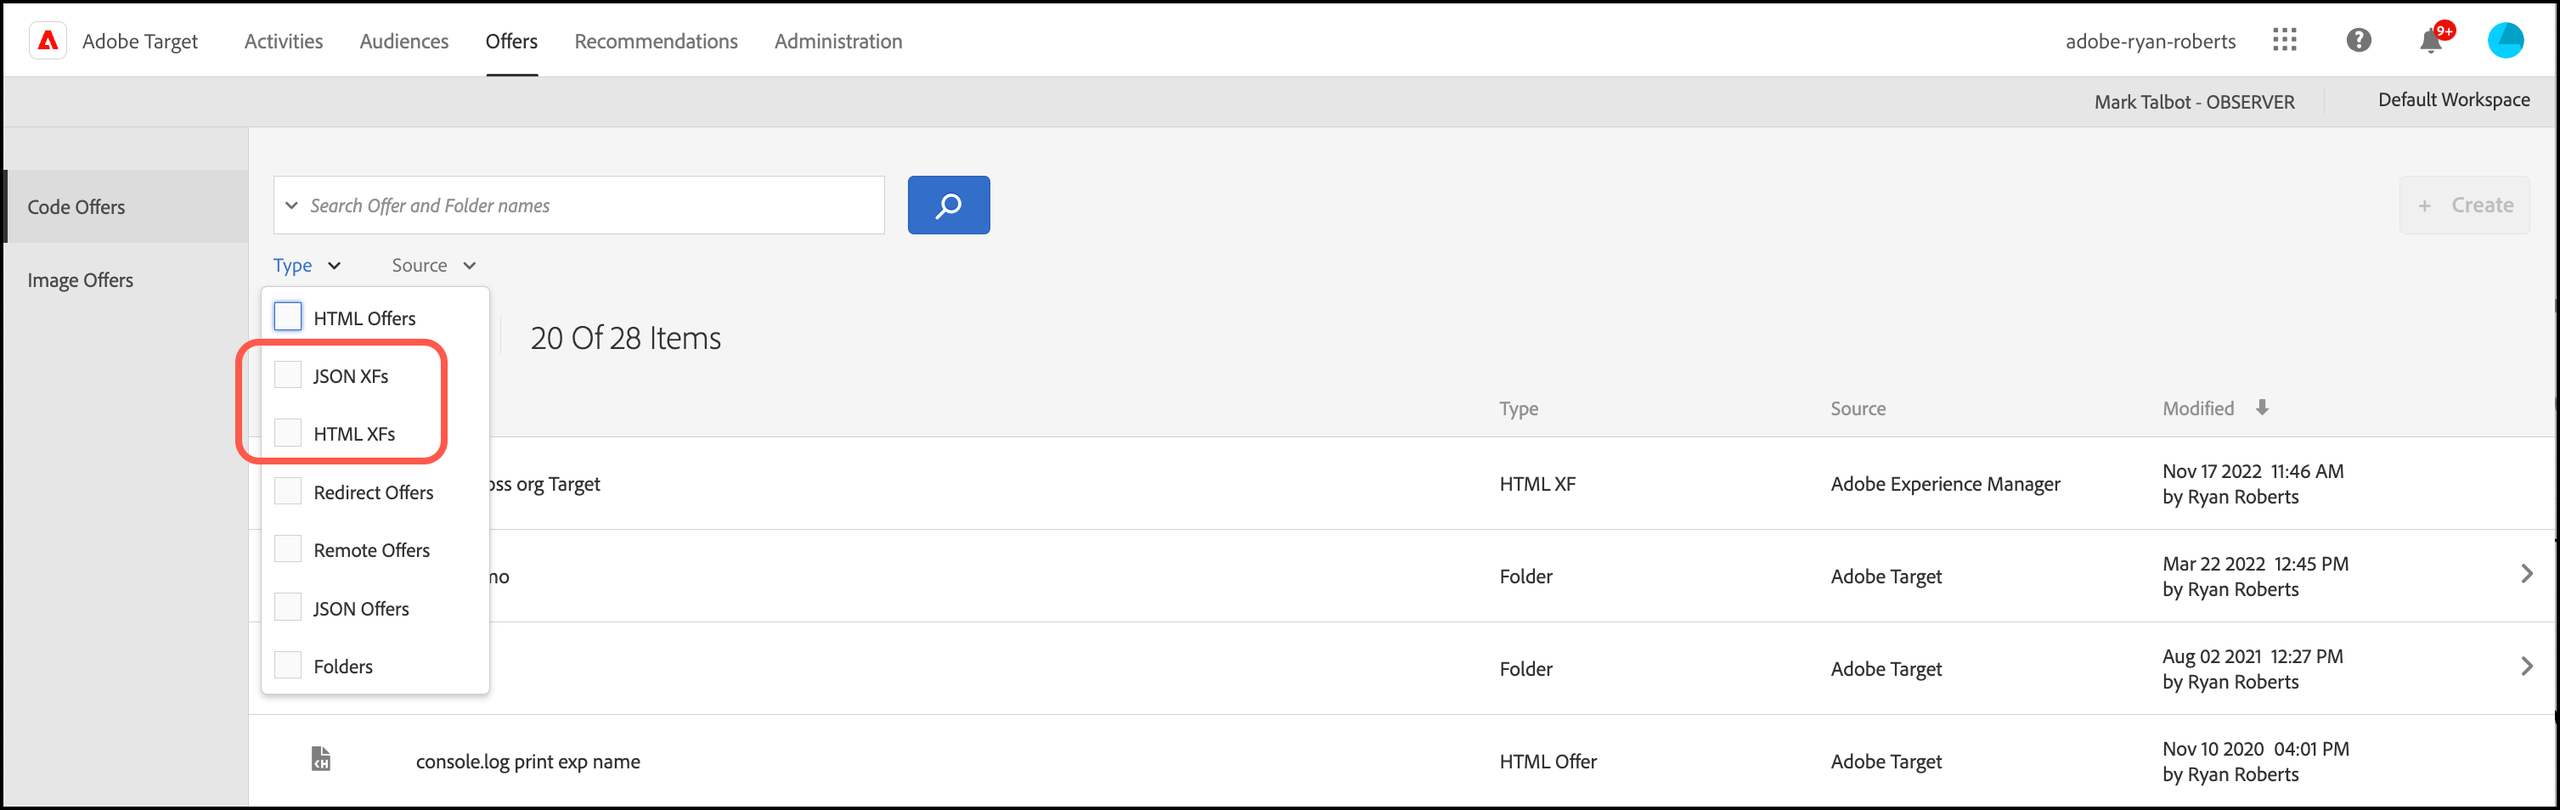
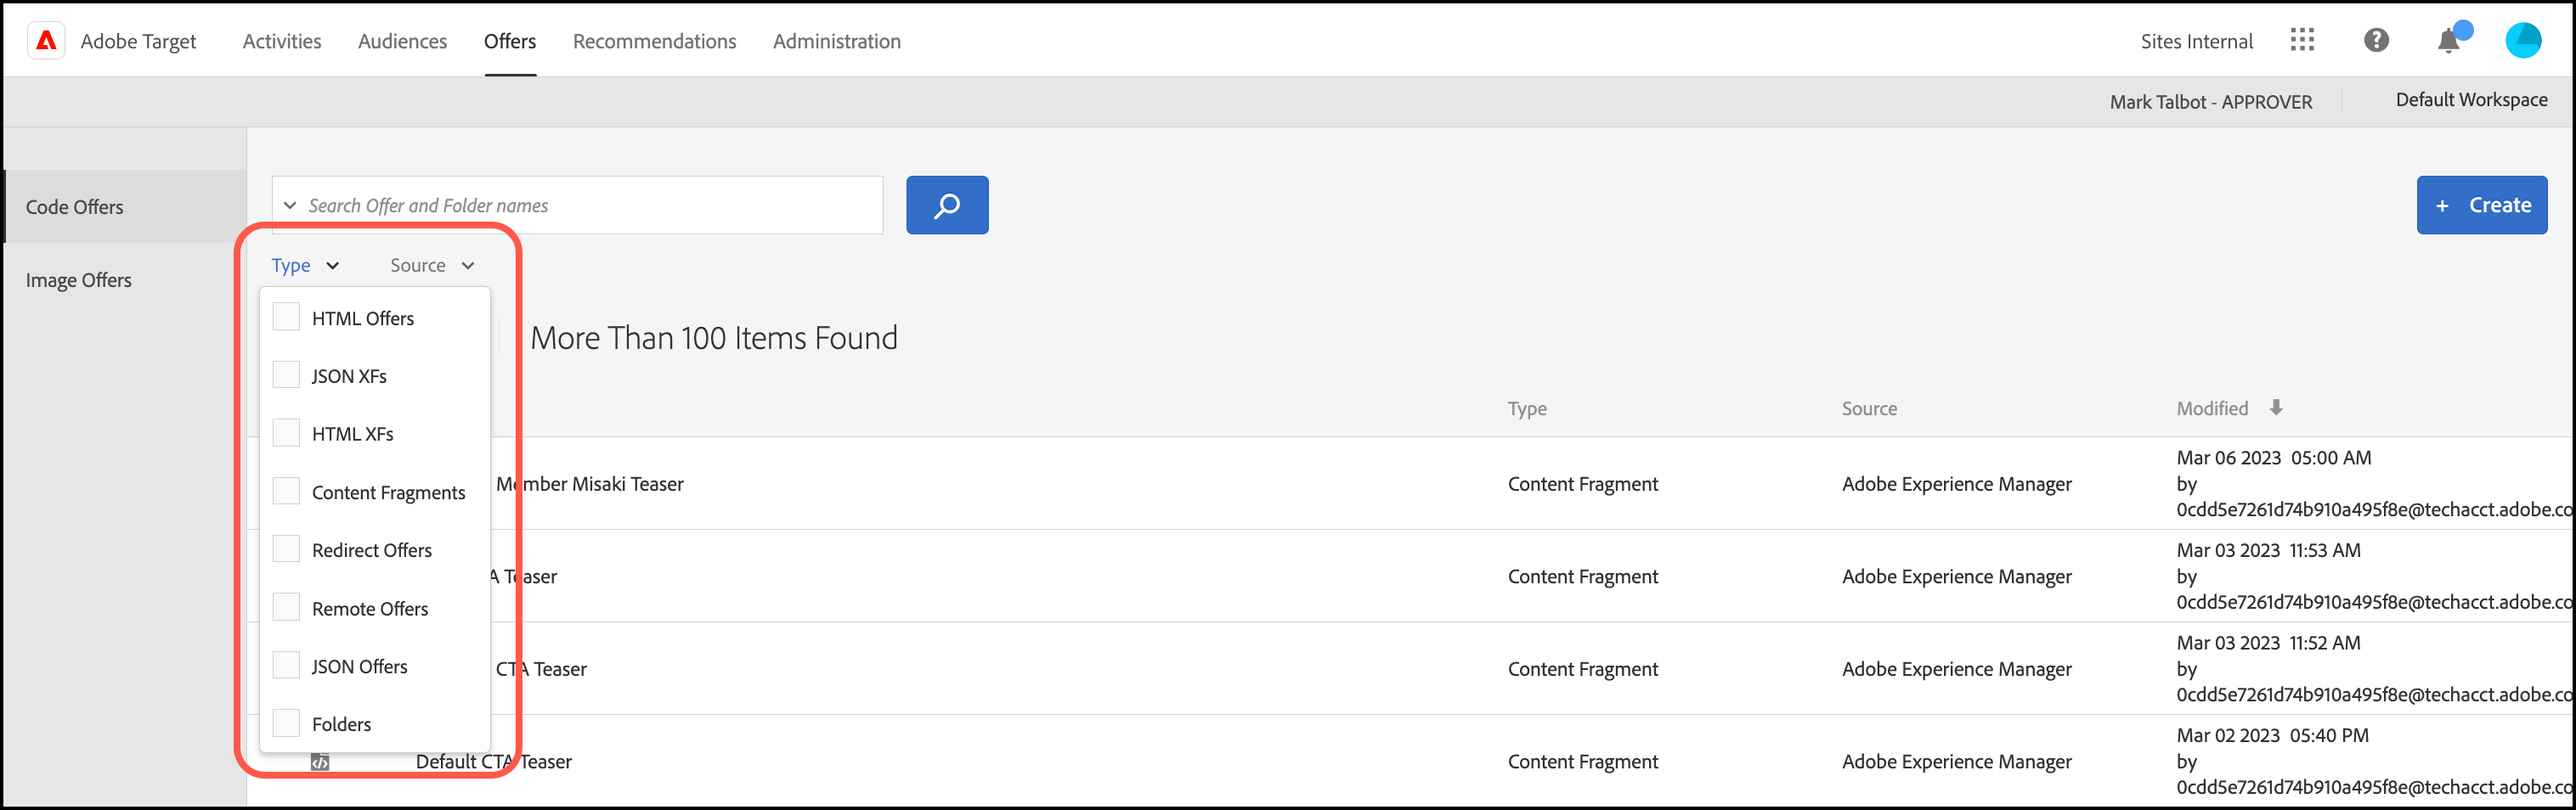
update

diff --git a/help/main/c-integrating-target-with-mac/aem/content-fragments-aem.md b/help/main/c-integrating-target-with-mac/aem/content-fragments-aem.md
@@ -40,13 +40,13 @@ After performing the preceding tasks, the [!UICONTROL Content Fragment] displays
 
 The [!UICONTROL Content Fragment] is imported into [!DNL Target] as a JSON offer. That [!UICONTROL Content Fragment] "primary" version remains in [!DNL AEM]. You cannot edit the [!UICONTROL Content Fragment] in [!DNL Target].
 
-You can filter and search by [!UICONTROL HTML XFs] and [!UICONTROL JSON XFs] to help you distinguish between [!UICONTROL Content Fragments] and [!UICONTROL Experience Fragment] types that are exported to [!DNL Target].
+You can filter and search by [!UICONTROL HTML XFs], [!UICONTROL JSON XFs] and [!UICONTROL Content Fragments] to help you distinguish between different offers types that are exported to [!DNL Target].
 
 ![Filter by Content Fragment types: HTML or JSON in the Target UI](/help/main/c-integrating-target-with-mac/aem/assets/fragment-types.png)
 
-You can hover over a [!UICONTROL Content Fragment] in the list, then click the [!UICONTROL View] icon ![Info icon](/help/main/c-integrating-target-with-mac/aem/assets/icon-info.png) to see additional information about the [!UICONTROL Content Fragment], including its [!UICONTROL Name], [!UICONTROL Type], [!UICONTROL Offer ID], [!UICONTROL Offer path], and last modifications information. Click the [!UICONTROL Offer Usage] tab to see the activities that reference this offer.
+You can hover over a [!UICONTROL Content Fragment] in the list, then click the [!UICONTROL View] icon ![Info icon](/help/main/c-integrating-target-with-mac/aem/assets/icon-info.png) to see additional information about the [!UICONTROL Content Fragment], including its [!UICONTROL AEM path] and [!UICONTROL AEM deep link]. Click the [!UICONTROL Offer Usage] tab to see the activities that reference this offer.
 
-![Content Fragment information pop-up](/help/main/c-integrating-target-with-mac/aem/assets/xf-info-popup.png)
+![Content Fragment information pop-up](/help/main/c-integrating-target-with-mac/aem/assets/cf-info-popup.png)
 
 You can consume [!UICONTROL Content Fragments] in [!DNL Target] activities using the [Form-Based Experience Composer](/help/main/c-experiences/form-experience-composer.md) only. You *cannot* consume [!UICONTROL Content Fragments] in [!DNL Target] activities using the [Visual Experience Composer](/help/main/c-experiences/c-visual-experience-composer/visual-experience-composer.md) (VEC). [!UICONTROL Content Fragments] are exported as JSON in [!DNL Target] and cannot be used in activities created using the VEC.
 
@@ -62,7 +62,7 @@ You can consume [!UICONTROL Content Fragments] in [!DNL Target] activities using
 
 1. In [!DNL Target], while creating or editing an experience in the [Form-Based Experience Composer](/help/main/c-experiences/form-experience-composer.md#task_FAC842A6535045B68B4C1AD3E657E56E), select the location on the page where you want to insert [!DNL AEM] content, then select **[!UICONTROL Change Content Fragment]** to display the [!UICONTROL Choose a Content Fragment] list.
 
-   ![experience_fragment_list image](/help/main/c-integrating-target-with-mac/aem/assets/experience_fragment_list.png)
+   ![content_fragment_list image](/help/main/c-integrating-target-with-mac/aem/assets/choose-content-fragment.png)
 
    The [!UICONTROL Content Fragment] list displays the content created in [!DNL AEM] that is now natively available from within [!DNL Target]. 
 

diff --git a/help/main/r-release-notes/doc-change.md b/help/main/r-release-notes/doc-change.md
@@ -13,6 +13,9 @@ This page lists significant changes made to the [!DNL Adobe Target] product docu
 
 |Date|Topic|Changes|
 | --- | --- | --- |
+|March 6|[[!DNL Target] release notes (current)](/help/main/r-release-notes/release-notes.md)|Added information about the [!DNL Target] [!UICONTROL Content Fragments] integration with [!DNL Adobe Experience Manager].|
+||[AEM [!UICONTROL Content Fragments]](/help/main/c-integrating-target-with-mac/aem/content-fragments-aem.md)|New article.|
+||[AEM Experience Fragments and Content Fragments overview](/help/main/c-integrating-target-with-mac/aem/aem-experience-and-content-fragments.md)|New article.|
 |February 21|[Allowlist Target edge nodes](https://developer.adobe.com/target/before-implement/privacy/allowlist-edges/){target=_blank}|Updated list of IP addresses to allowlist for all regions in the [Adobe Target Developer Guide](https://developer.adobe.com/target/){target=_blank}.|
 ||[Modifications](/help/main/c-experiences/c-visual-experience-composer/c-vec-code-editor/vec-code-editor.md)|Added text explaining that the example using JQuery assumes that the customer's website has jQuery available on the page when [!DNL Target] executes the offers.|
 |February 10|[Target release notes (current)](/help/main/r-release-notes/release-notes.md)|Added release notes for the [!DNL Target Standard/Premium] 22.14.5 release.|

diff --git a/help/main/r-release-notes/target-release-notes.md b/help/main/r-release-notes/target-release-notes.md
@@ -9,9 +9,15 @@ exl-id: f2783042-f6ee-4f73-b487-ede11d55d530
 
 This article contains prerelease information. Release dates, features, and other information are subject to change without notice. 
 
-**Last Updated: February 10, 2023**
+**Last Updated: March 6, 2023**
 
 To view information about the current release, see [Target Release Notes](release-notes.md). The information on these pages could be the same, depending on the timing of releases. The issue numbers in parentheses are for internal [!DNL Adobe] use.
+
+## [!DNL Target] Standard/Premium [!UICONTROL Content Fragments] integration with [!DNL Adobe Experience Manager] (AEM) (March 6, 2023)
+
+|Resource|Details|
+|--- |--- |
+|AEM content fragments|Use AEM content fragments in Target activities. Combine the ease-of-use and power of AEM with powerful Artificial Intelligence (AI) and Machine Learning (ML) capabilities in [!DNL Target] to test and personalize experiences at scale.<P>For more information, see [AEM Experience Fragments and Content Fragments overview](/help/main/c-integrating-target-with-mac/aem/aem-experience-and-content-fragments.md) and [AEM Content Fragments](/help/main/c-integrating-target-with-mac/aem/content-fragments-aem.md).|
 
 ## [!DNL Target] Standard/Premium 22.14.5 (February 13-15, 2023)
 

diff --git a/help/main/r-release-notes/release-notes.md b/help/main/r-release-notes/release-notes.md
@@ -12,6 +12,12 @@ These release notes provide information about features, enhancements, and fixes 
 
 (The issue numbers in parentheses are for internal [!DNL Adobe] use.)
 
+## [!DNL Target] Standard/Premium [!UICONTROL Content Fragments] integration with [!DNL Adobe Experience Manager] (AEM) (March 6, 2023)
+
+|Resource|Details|
+|--- |--- |
+|AEM content fragments|Use AEM content fragments in Target activities. Combine the ease-of-use and power of AEM with powerful Artificial Intelligence (AI) and Machine Learning (ML) capabilities in [!DNL Target] to test and personalize experiences at scale.<P>For more information, see [AEM Experience Fragments and Content Fragments overview](/help/main/c-integrating-target-with-mac/aem/aem-experience-and-content-fragments.md) and [AEM Content Fragments](/help/main/c-integrating-target-with-mac/aem/content-fragments-aem.md).|
+
 ## [!DNL Target] Standard/Premium 22.14.5 (February 13-15, 2023)
 
 This release will be available according to the following staggered schedule:

diff --git a/help/main/target-home.md b/help/main/target-home.md
@@ -11,7 +11,7 @@ exl-id: 6003a663-4c0c-4179-8025-aee2ae107c5c
 
 [!DNL Adobe Target] is the [!DNL Adobe Experience Cloud] solution that provides everything you need to tailor and personalize your customers' experience so you can maximize revenue on your web and mobile sites, apps, social media, and other digital channels.
 
-**Last Updated: February 21, 2023 ( [See What Changed](r-release-notes/doc-change.md) )**
+**Last Updated: March 6, 2023 ( [See What Changed](r-release-notes/doc-change.md) )**
 
 The following sections point you to useful links in this guide, arranged by intended audience based on typical job functions:
 
